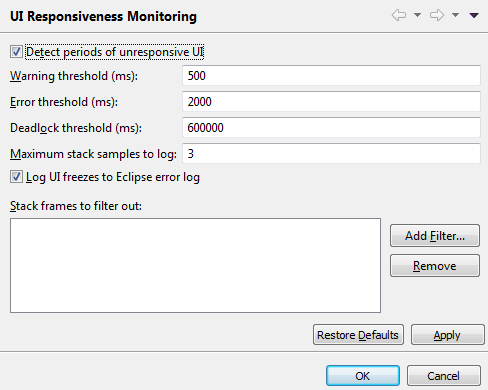
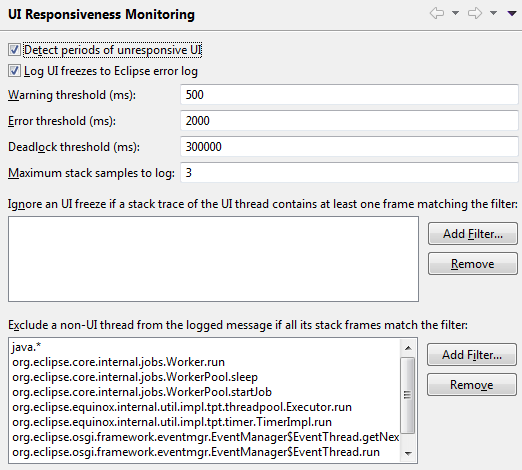
Bug 453833 - [responsiveness] User documentation for UI responsiveness monitoring is slighly out of date

diff --git a/bundles/org.eclipse.platform.doc.user/reference/ref-uiresponsiveness_preference_page.htm b/bundles/org.eclipse.platform.doc.user/reference/ref-uiresponsiveness_preference_page.htm
@@ -36,10 +36,13 @@ UI freezes caused by deadlocks. If Eclipse becomes completely unresponsive don't
 the deadlock threshold expires. The message containing stack traces of all threads will be written
 to the Eclipse error log.</p>
 
-<p>It is possible to avoid logging of UI freezes matching a specific pattern. To achieve that, click
-the <strong>Add Filter...</strong> button and type the fully qualified method name of a stack frame
-to use as a filter. UI freezes containing this method in a stack trace of the UI thread will be
-ignored.</p>
+<p>Logging of UI freezes is affected by two filters. One filter is used to avoid logging of
+UI freezes matching a specific pattern. A UI freeze is ignored if a stack trace of the UI thread
+contains at least one stack frame matching the filter. Another filter is used to avoid logging of
+non-UI threads with trivial stacks. The stack of a non-UI thread is not included in the logged
+message if all its stack frames match the filter. To add a stack frame to a filter, click
+the corresponding <strong>Add Filter...</strong> button and type the fully qualified method name
+of a stack frame to use as a filter.</p>
 
 <p>Please file bugs for the UI freezes you encounter, describe what you were doing at the time and
 include the messages and the stack traces from the error log related to the freezes. This way
